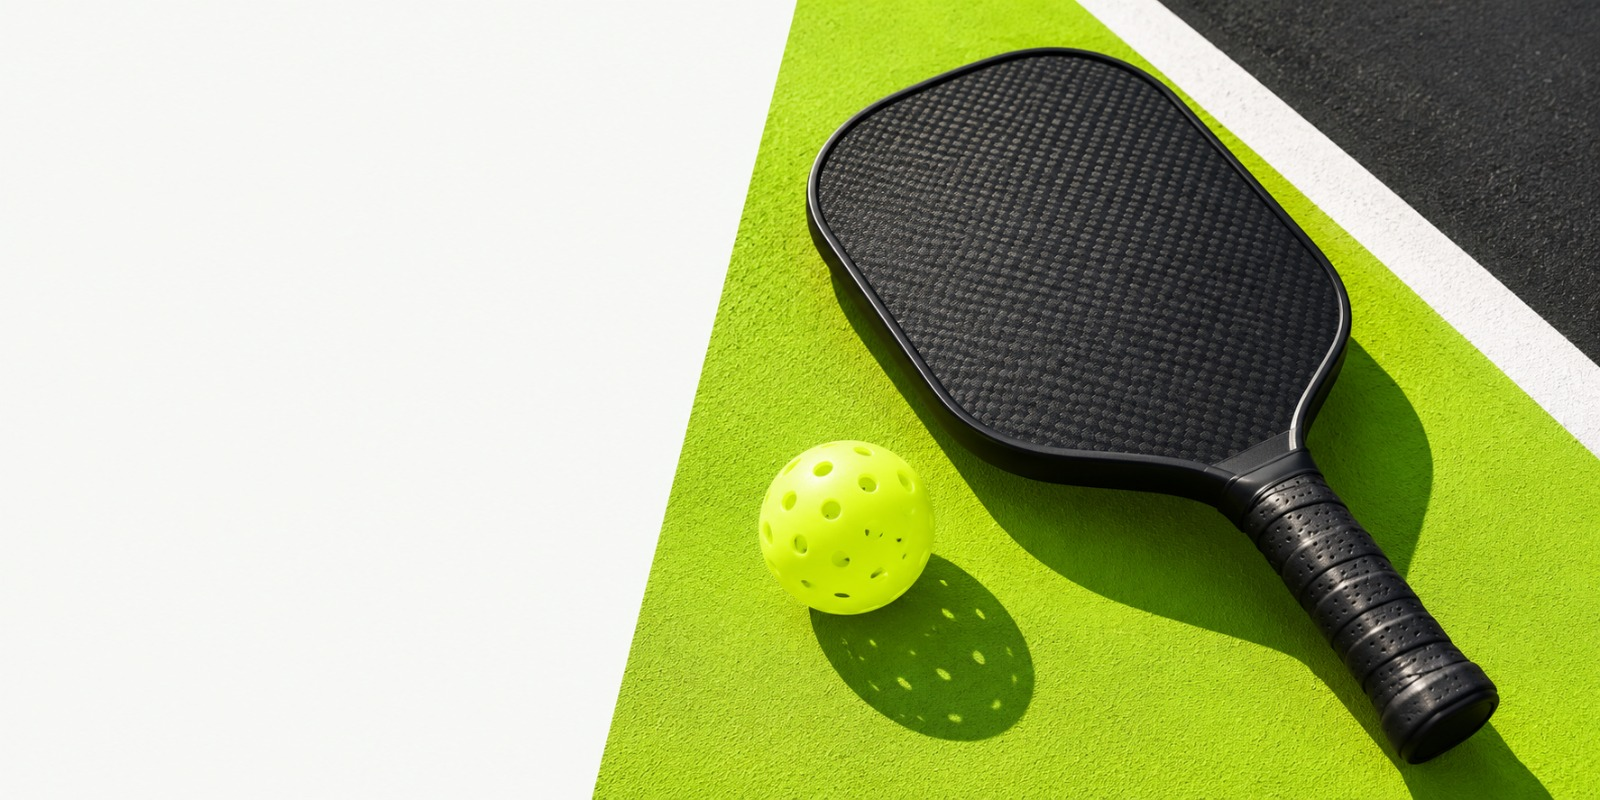
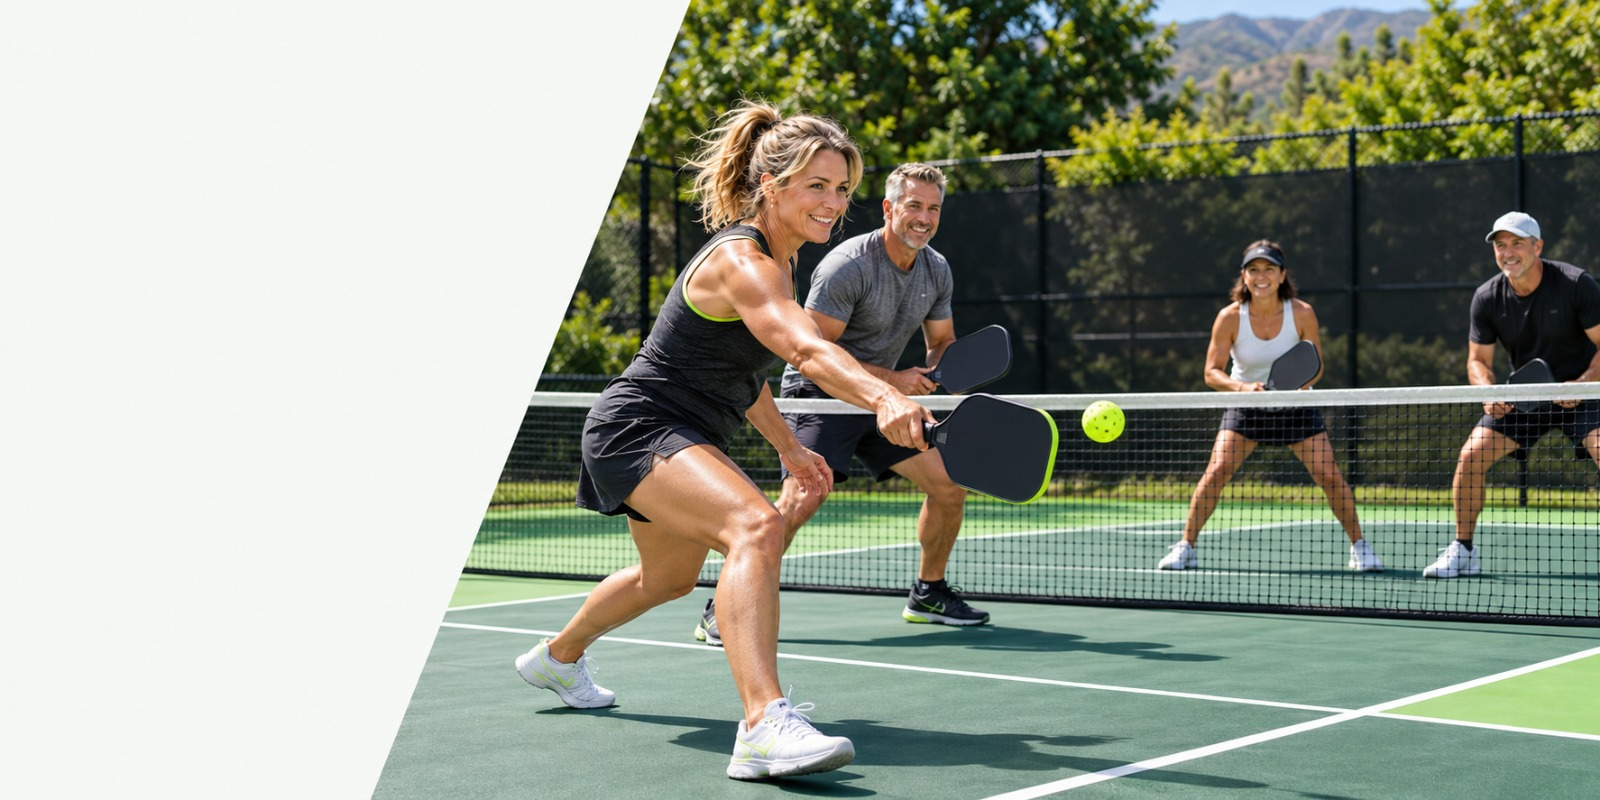
feat: restore hero light animation and apply themed floating balls animation to footer

diff --git a/src/components/layout/FooterLightAnimation.tsx b/src/components/layout/FooterLightAnimation.tsx
@@ -1,0 +1,255 @@
+'use client';
+
+import React, { useEffect, useRef } from 'react';
+import styles from './FooterLightAnimation.module.css';
+
+interface Ball {
+  x: number;
+  y: number;
+  radius: number;
+  vx: number;
+  vy: number;
+  alpha: number;
+  rotation: number;
+  vRot: number;
+  color: string;
+}
+
+export default function FooterLightAnimation() {
+  const canvasRef = useRef<HTMLCanvasElement>(null);
+  const containerRef = useRef<HTMLDivElement>(null);
+  const mouseRef = useRef<{ x: number; y: number; active: boolean }>({ x: 0, y: 0, active: false });
+
+  useEffect(() => {
+    const canvas = canvasRef.current;
+    const container = containerRef.current;
+    if (!canvas || !container) return;
+
+    const ctx = canvas.getContext('2d');
+    if (!ctx) return;
+
+    let animId: number;
+    let width = (canvas.width = container.clientWidth);
+    let height = (canvas.height = container.clientHeight);
+
+    const handleResize = () => {
+      if (!container || !canvas) return;
+      width = canvas.width = container.clientWidth;
+      height = canvas.height = container.clientHeight;
+    };
+
+    window.addEventListener('resize', handleResize);
+
+    const handleMouseMove = (e: MouseEvent) => {
+      const rect = container.getBoundingClientRect();
+      const x = e.clientX - rect.left;
+      const y = e.clientY - rect.top;
+
+      if (x >= -50 && x <= rect.width + 50 && y >= -50 && y <= rect.height + 50) {
+        mouseRef.current = { x, y, active: true };
+      } else {
+        mouseRef.current.active = false;
+      }
+    };
+
+    const handleMouseLeave = () => {
+      mouseRef.current.active = false;
+    };
+
+    window.addEventListener('mousemove', handleMouseMove, { passive: true });
+    container.addEventListener('mouseleave', handleMouseLeave);
+
+    // Balls color palette harmonized with the dark #111813 footer and volt branding
+    const BALL_COUNT = 15;
+    const balls: Ball[] = [];
+    const colors = [
+      '#e2f952', // electric volt highlight
+      '#d4f21d', // optic chartreuse neon
+      '#c7eb14', // vibrant tournament volt
+      '#bfe012', // glowing court lime
+      '#f5ff82', // platinum specular volt
+    ];
+
+    for (let i = 0; i < BALL_COUNT; i++) {
+      balls.push({
+        x: Math.random() * width,
+        y: Math.random() * height,
+        radius: Math.random() * 12 + 12, // 12px to 24px radius
+        vx: (Math.random() - 0.5) * 0.45,
+        vy: (Math.random() - 0.5) * 0.35 - 0.1, // natural gentle upward float
+        alpha: Math.random() * 0.35 + 0.45, // high visibility on dark background
+        rotation: Math.random() * Math.PI * 2,
+        vRot: (Math.random() - 0.5) * 0.015,
+        color: colors[Math.floor(Math.random() * colors.length)],
+      });
+    }
+
+    // Draw authentic 3D perforated pickleball adapted for dark background
+    const drawPickleball = (ball: Ball) => {
+      ctx.save();
+      ctx.translate(ball.x, ball.y);
+      ctx.rotate(ball.rotation);
+
+      // Luminous neon glow on dark footer
+      ctx.shadowColor = 'rgba(226, 249, 82, 0.45)';
+      ctx.shadowBlur = ball.radius * 0.75;
+
+      // 3D Sphere radial gradient
+      const grad = ctx.createRadialGradient(
+        -ball.radius * 0.32,
+        -ball.radius * 0.32,
+        ball.radius * 0.08,
+        0,
+        0,
+        ball.radius
+      );
+      grad.addColorStop(0, '#ffffff'); // bright sheen
+      grad.addColorStop(0.28, ball.color); // glowing volt body
+      grad.addColorStop(0.85, '#8aa800'); // deep volt edge
+      grad.addColorStop(1, '#3b4c00'); // 3D contour shadow
+
+      ctx.beginPath();
+      ctx.arc(0, 0, ball.radius, 0, Math.PI * 2);
+      ctx.fillStyle = grad;
+      ctx.globalAlpha = ball.alpha;
+      ctx.fill();
+
+      // Subtle Outer Rim highlight
+      ctx.shadowBlur = 0;
+      ctx.lineWidth = 1.2;
+      ctx.strokeStyle = 'rgba(255, 255, 255, 0.45)';
+      ctx.stroke();
+
+      // Perforated pickleball holes (dark inset circles)
+      ctx.fillStyle = 'rgba(12, 18, 14, 0.95)';
+
+      const holeRadius = ball.radius * 0.16;
+
+      // Center hole
+      ctx.beginPath();
+      ctx.arc(0, 0, holeRadius, 0, Math.PI * 2);
+      ctx.fill();
+      ctx.strokeStyle = 'rgba(0, 0, 0, 0.6)';
+      ctx.lineWidth = 0.8;
+      ctx.stroke();
+
+      // Inner ring (5 holes)
+      const innerDist = ball.radius * 0.45;
+      for (let h = 0; h < 5; h++) {
+        const angle = (h * Math.PI * 2) / 5;
+        const hx = Math.cos(angle) * innerDist;
+        const hy = Math.sin(angle) * innerDist;
+        ctx.beginPath();
+        ctx.arc(hx, hy, holeRadius * 0.9, 0, Math.PI * 2);
+        ctx.fill();
+        ctx.stroke();
+      }
+
+      // Outer ring (7 holes)
+      const outerDist = ball.radius * 0.74;
+      for (let h = 0; h < 7; h++) {
+        const angle = (h * Math.PI * 2) / 7 + 0.3;
+        const hx = Math.cos(angle) * outerDist;
+        const hy = Math.sin(angle) * outerDist;
+        ctx.beginPath();
+        ctx.arc(hx, hy, holeRadius * 0.75, 0, Math.PI * 2);
+        ctx.fill();
+        ctx.stroke();
+      }
+
+      ctx.restore();
+    };
+
+    // Subtle ambient neon court lines for dark footer
+    const drawCourtLines = (time: number) => {
+      ctx.save();
+      const courtY = height * 0.9;
+      const pulse = 0.5 + Math.sin(time * 0.0015) * 0.25;
+
+      ctx.strokeStyle = `rgba(226, 249, 82, ${pulse * 0.08})`;
+      ctx.lineWidth = 1.2;
+
+      // Baseline
+      ctx.beginPath();
+      ctx.moveTo(width * 0.08, courtY);
+      ctx.lineTo(width * 0.92, courtY);
+      ctx.stroke();
+
+      // Center court divider
+      ctx.beginPath();
+      ctx.moveTo(width * 0.5, courtY);
+      ctx.lineTo(width * 0.5, height);
+      ctx.stroke();
+
+      // Diagonal perspective sideline cues
+      ctx.beginPath();
+      ctx.moveTo(width * 0.08, courtY);
+      ctx.lineTo(width * 0.03, height);
+      ctx.moveTo(width * 0.92, courtY);
+      ctx.lineTo(width * 0.97, height);
+      ctx.stroke();
+
+      ctx.restore();
+    };
+
+    let startTime = performance.now();
+
+    const render = (currentTime: number) => {
+      ctx.clearRect(0, 0, width, height);
+
+      drawCourtLines(currentTime - startTime);
+
+      // Render & update floating balls
+      for (let i = 0; i < balls.length; i++) {
+        const b = balls[i];
+
+        // Mouse hover evasion
+        if (mouseRef.current.active) {
+          const dx = b.x - mouseRef.current.x;
+          const dy = b.y - mouseRef.current.y;
+          const dist = Math.hypot(dx, dy);
+          if (dist < 150 && dist > 0) {
+            const force = ((150 - dist) / 150) * 0.07;
+            b.vx += (dx / dist) * force;
+            b.vy += (dy / dist) * force;
+          }
+        }
+
+        // Damping / friction for smooth gliding
+        b.vx *= 0.988;
+        b.vy *= 0.988;
+
+        // Position & rotation update
+        b.x += b.vx;
+        b.y += b.vy;
+        b.rotation += b.vRot;
+
+        // Boundary wrapping
+        if (b.x < -b.radius * 2) b.x = width + b.radius;
+        if (b.x > width + b.radius * 2) b.x = -b.radius;
+        if (b.y < -b.radius * 2) b.y = height + b.radius;
+        if (b.y > height + b.radius * 2) b.y = -b.radius;
+
+        drawPickleball(b);
+      }
+
+      animId = requestAnimationFrame(render);
+    };
+
+    animId = requestAnimationFrame(render);
+
+    return () => {
+      cancelAnimationFrame(animId);
+      window.removeEventListener('resize', handleResize);
+      window.removeEventListener('mousemove', handleMouseMove);
+    };
+  }, []);
+
+  return (
+    <div className={styles.lightCanvasContainer} ref={containerRef} aria-hidden="true">
+      <div className={styles.ambientGlow} />
+      <div className={styles.courtGridLines} />
+      <canvas ref={canvasRef} className={styles.canvas} />
+    </div>
+  );
+}

diff --git a/src/components/layout/FooterLightAnimation.module.css b/src/components/layout/FooterLightAnimation.module.css
@@ -1,0 +1,62 @@
+.lightCanvasContainer {
+  position: absolute;
+  inset: 0;
+  overflow: hidden;
+  pointer-events: none;
+  z-index: 1;
+}
+
+.canvas {
+  position: absolute;
+  top: 0;
+  left: 0;
+  width: 100%;
+  height: 100%;
+  display: block;
+}
+
+.ambientGlow {
+  position: absolute;
+  top: 40%;
+  left: 50%;
+  width: 80vw;
+  height: 70vh;
+  transform: translate(-50%, -50%);
+  background: radial-gradient(
+    ellipse at center,
+    rgba(226, 249, 82, 0.12) 0%,
+    rgba(110, 148, 0, 0.05) 50%,
+    transparent 75%
+  );
+  filter: blur(60px);
+  pointer-events: none;
+  animation: breatheFooterGlow 8s ease-in-out infinite alternate;
+}
+
+.courtGridLines {
+  position: absolute;
+  inset: 0;
+  background-image: 
+    linear-gradient(to bottom, rgba(226, 249, 82, 0.035) 1px, transparent 1px),
+    linear-gradient(to right, rgba(226, 249, 82, 0.025) 1px, transparent 1px);
+  background-size: 80px 80px;
+  mask-image: radial-gradient(ellipse at 50% 50%, black 30%, transparent 80%);
+  -webkit-mask-image: radial-gradient(ellipse at 50% 50%, black 30%, transparent 80%);
+  pointer-events: none;
+  opacity: 0.7;
+}
+
+@keyframes breatheFooterGlow {
+  0% {
+    transform: translate(-50%, -50%) scale(0.9);
+    opacity: 0.7;
+  }
+  50% {
+    transform: translate(-50%, -48%) scale(1.08);
+    opacity: 1;
+  }
+  100% {
+    transform: translate(-50%, -52%) scale(0.95);
+    opacity: 0.75;
+  }
+}

diff --git a/src/components/home/HeroSection.tsx b/src/components/home/HeroSection.tsx
@@ -7,6 +7,7 @@ import { Phone, ArrowRight, ShieldCheck } from 'lucide-react';
 import styles from './HeroSection.module.css';
 import siteContent from '@/content/site.content.json';
 import VideoModalPlayer from '@/components/common/VideoModalPlayer';
+import HeroLightAnimation from './HeroLightAnimation';
 
 const { hero } = siteContent.home;
 const { brand } = siteContent;
@@ -20,10 +21,12 @@ interface HeroSectionProps {
 export default function HeroSection({
   transparentBg = false,
   paddleCourtSlot,
+  enableLightAnimation = true,
 }: HeroSectionProps) {
   return (
     <section className={`${styles.hero} ${transparentBg ? styles.transparent : ''}`}>
       <div className={styles.bg} aria-hidden="true" />
+      {enableLightAnimation && <HeroLightAnimation />}
       <div className={`container ${styles.inner}`}>
         <motion.div 
           initial={{ opacity: 0, y: 16 }}

diff --git a/src/components/layout/Footer.tsx b/src/components/layout/Footer.tsx
@@ -4,7 +4,7 @@ import Link from 'next/link';
 import styles from './Footer.module.css';
 import siteContent from '@/content/site.content.json';
 import PaddleLogo from '@/components/common/PaddleLogo';
-import AnimationPhysics from '@/components/animations/AnimationPhysics';
+import FooterLightAnimation from './FooterLightAnimation';
 
 const { footer, brand } = siteContent;
 
@@ -16,7 +16,7 @@ export default function Footer() {
   };
   return (
     <footer className={styles.footer}>
-      <AnimationPhysics ballCount={14} />
+      <FooterLightAnimation />
       <div className={`container ${styles.grid}`}>
         {/* Brand */}
         <div className={styles.brand}>
